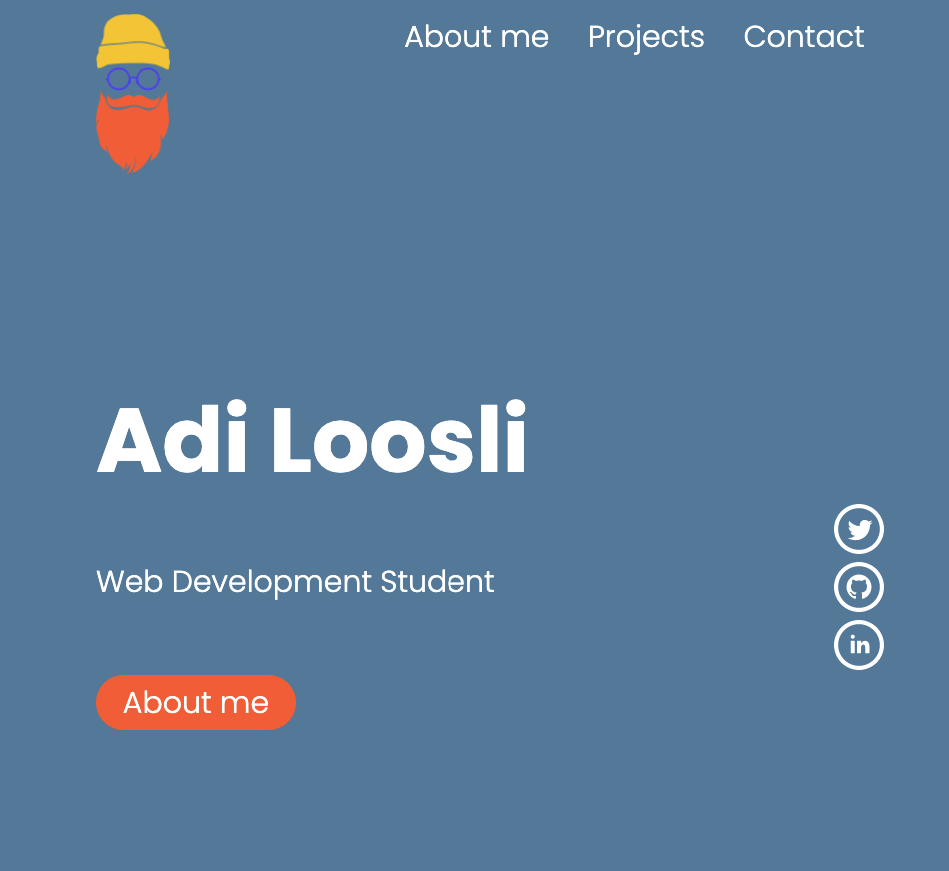
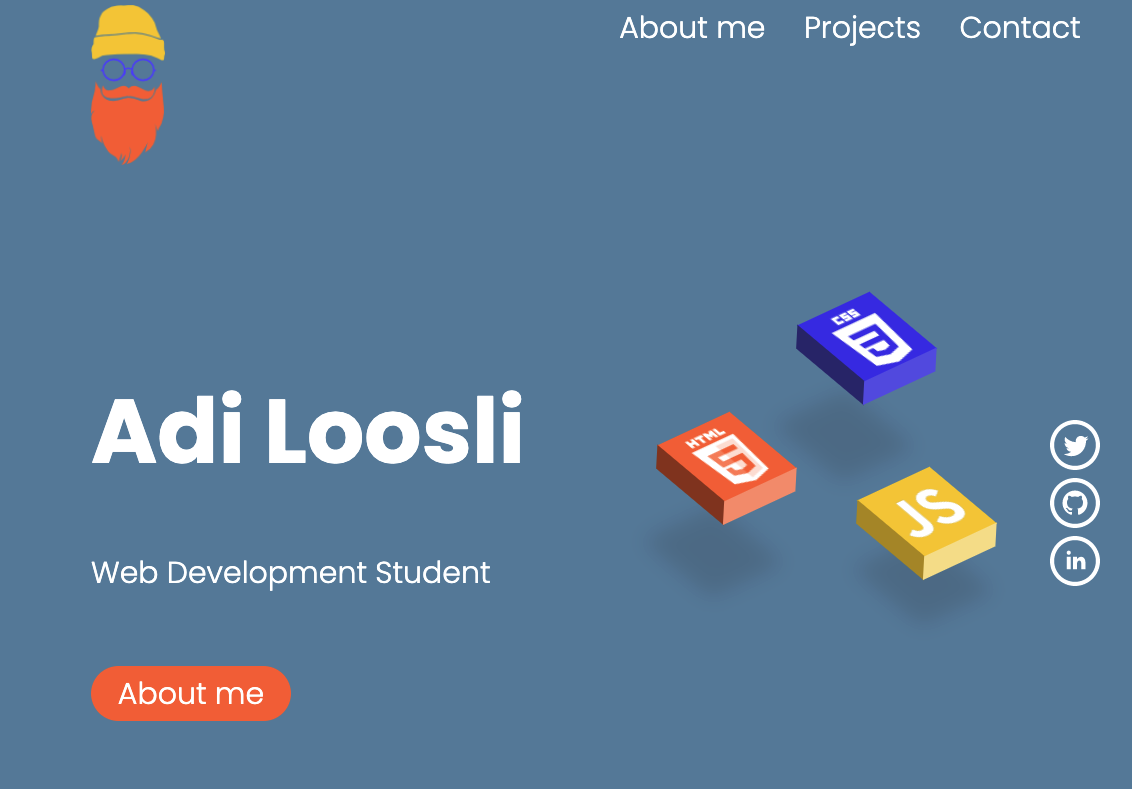
add cubes, expand README

diff --git a/assets/style.css b/assets/style.css
@@ -17,10 +17,10 @@ body {
   font-family: "Poppins", sans-serif;
 }
 
-
 h2 {
   font-size: 50px;
   padding-bottom: 40px;
+  text-shadow: 10px 10px 20px rgba(0, 0, 0, 0.4);
 }
 h3 {
   font-size: 20px;
@@ -68,12 +68,14 @@ li {
 
 .hero {
   background-color: var(--hero-color);
+
   padding: 20px;
   height: 100vh;
   color: white;
 }
 
 .hero-area {
+  position: relative;
   display: flex;
   justify-content: space-between;
   align-items: center;
@@ -118,8 +120,91 @@ h1 {
 .button:active {
   background-color: var(--button-active);
 }
+/* Socials Icons */
 .socials {
+  margin-bottom: 150px;
   padding-bottom: 70px;
+}
+/* Cube illustration */
+.hero-image {
+  position: relative;
+}
+.cube {
+  position: absolute;
+  width: 80px;
+  height: 80px;
+
+  transform: rotate(-25deg) skew(25deg);
+}
+.cube::before {
+  position: absolute;
+  content: "";
+  width: 21px;
+  height: 100%;
+  background-color: blue;
+  transform: skewY(-45deg);
+  left: -20px;
+  bottom: -10px;
+}
+.cube::after {
+  position: absolute;
+  content: "";
+  width: 100%;
+  height: 21px;
+  background-color: rgb(255, 0, 25);
+  transform: skewX(-45deg);
+  left: -10px;
+  bottom: -20px;
+}
+#html {
+  left: -100px;
+  bottom: 120px;
+
+  background-image: url(./images/html-square.png);
+  background-size: cover;
+  background-color: var(--button-color);
+  box-shadow: -90px 80px 20px rgb(50 50 50/ 15%);
+}
+#html:before {
+  background-color: rgb(147, 69, 40);
+}
+
+#html:after {
+  background-color: rgb(246, 157, 125);
+}
+
+
+#css {
+  left: 40px;
+  bottom: 240px;
+  background-image: url("images/css-square.png");
+  background-size: cover;
+  background-color: rgb(71, 71, 231);
+  box-shadow: -100px 80px 20px rgb(50 50 50/ 15%);
+}
+
+#css:before {
+  background-color: rgb(52, 52, 122);
+}
+
+#css:after {
+  background-color: rgb(100, 100, 229);
+}
+#javascript {
+  left: 100px;
+  bottom: 65px;
+  background-image: url("images/javascript-square.png");
+  background-size: cover;
+  background-color: #f6cd45;
+  box-shadow: -60px 60px 20px rgb(50 50 50/ 15%);
+}
+
+#javascript:before {
+  background-color: #b49633;
+}
+
+#javascript:after {
+  background-color: #f7e199;
 }
 
 /* About me section*/
@@ -136,7 +221,7 @@ h1 {
   margin-left: px;
 }
 .about-me-paragraph {
-  font-weight: 600;
+  font-weight: 300;
 }
 .about-me-h2 {
   font-size: 80px;
@@ -144,7 +229,8 @@ h1 {
 }
 
 .headshot {
-  width: 300px;
+  margin-top: 40px;
+  width: 400px;
 }
 
 /* Project section */
@@ -177,7 +263,8 @@ h1 {
 }
 
 #projects {
-  margin: 0 5%;
+  margin-left: 80px;
+  margin-right: 80px;
 
   display: grid;
   grid-template-rows: 200px 200px 200px;
@@ -192,28 +279,28 @@ h1 {
 #project-1 {
   grid-area: p1;
   background-image: url("./images/prework.png");
-  box-shadow: 10px 10px 30px rgba(0, 0, 0, 0.6);
+  box-shadow: 10px 10px 30px rgba(0, 0, 0, 0.4);
 }
 #project-2 {
   grid-area: p2;
   background-image: url("./images/horiseon.png");
-  box-shadow: 10px 10px 30px rgba(0, 0, 0, 0.6);
+  box-shadow: 10px 10px 30px rgba(0, 0, 0, 0.4);
   margin-bottom: 50px;
 }
 #project-3 {
   grid-area: p3;
   background-image: url("./images/02-run-buddy.jpg");
-  box-shadow: 10px 10px 30px rgba(0, 0, 0, 0.6);
+  box-shadow: 10px 10px 30px rgba(0, 0, 0, 0.4);
 }
 #project-4 {
   grid-area: p4;
   background-image: url("./images/02-portfolio-2.jpg");
-  box-shadow: 10px 10px 30px rgba(0, 0, 0, 0.6);
+  box-shadow: 10px 10px 30px rgba(0, 0, 0, 0.4);
 }
 #project-5 {
   grid-area: p5;
   background-image: url("./images/02-portfolio-3.jpg");
-  box-shadow: 10px 10px 30px rgba(0, 0, 0, 0.6);
+  box-shadow: 10px 10px 30px rgba(0, 0, 0, 0.4);
   margin-bottom: 50px;
 }
 
@@ -266,6 +353,9 @@ footer {
   .headshot {
     width: 200px;
   }
+  .hero-image {
+    display: none;
+  }
 }
 @media only screen and (max-width: 600px) {
   .hamburger {
@@ -296,8 +386,8 @@ footer {
   .logo {
     display: none;
   }
-  .headshot {
-    width: 200px;
+  .headshot-container {
+    display: none;
   }
 
   #projects {
@@ -319,7 +409,7 @@ footer {
   }
   .hero-text {
     padding-top: 80px;
-  
+
     margin-bottom: 100px;
   }
   .hero-area {

diff --git a/index.html b/index.html
@@ -41,6 +41,12 @@
           <p>Web Development Student</p>
           <div class="button"><a href="#about-me">About me</a></div>
         </div>
+        <div class="hero-image">
+          
+          <div class="cube" id="javascript"></div>
+          <div class="cube" id="html"></div>
+          <div class="cube" id="css"></div>
+        </div>
         <div class="socials">
           <div>
             <a href="https://www.twitter.com/lizzwizzie" class="social">

diff --git a/README.md b/README.md
@@ -15,8 +15,11 @@ It is rather rough around the edges, i will continue to work on it and make impr
 
 ## Credits
 
-I got a lot of help from this tutorial
+I got a lot of help from this tutorials
 https://www.youtube.com/watch?v=-D6oTPA4vXc
+
+The cubes are from here
+https://www.youtube.com/watch?v=2eFr9jvNHH8
 
 ---
 
